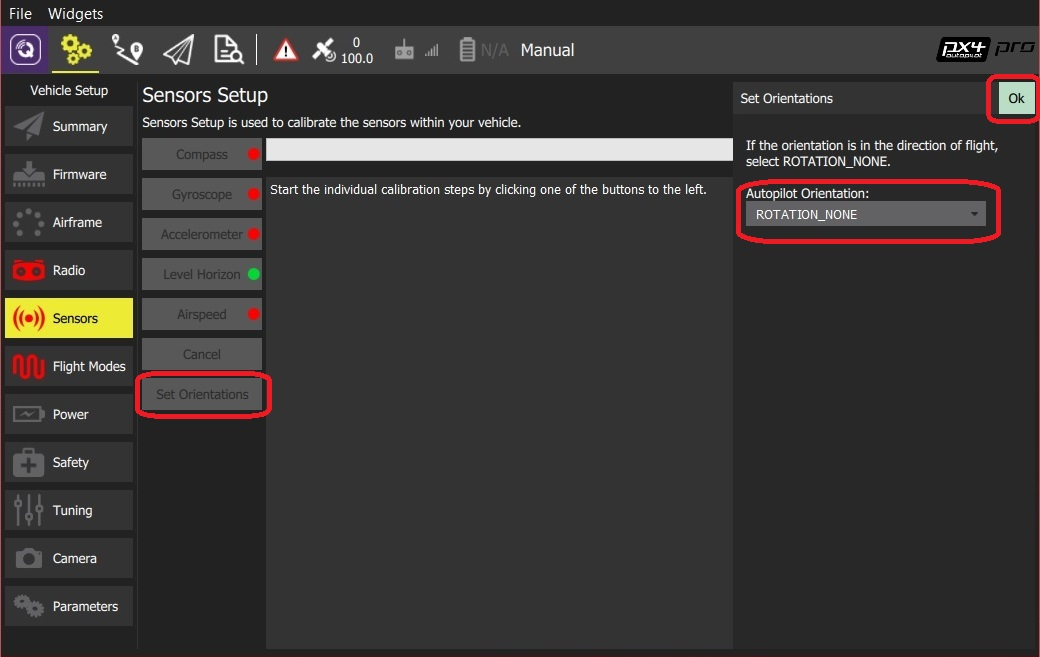
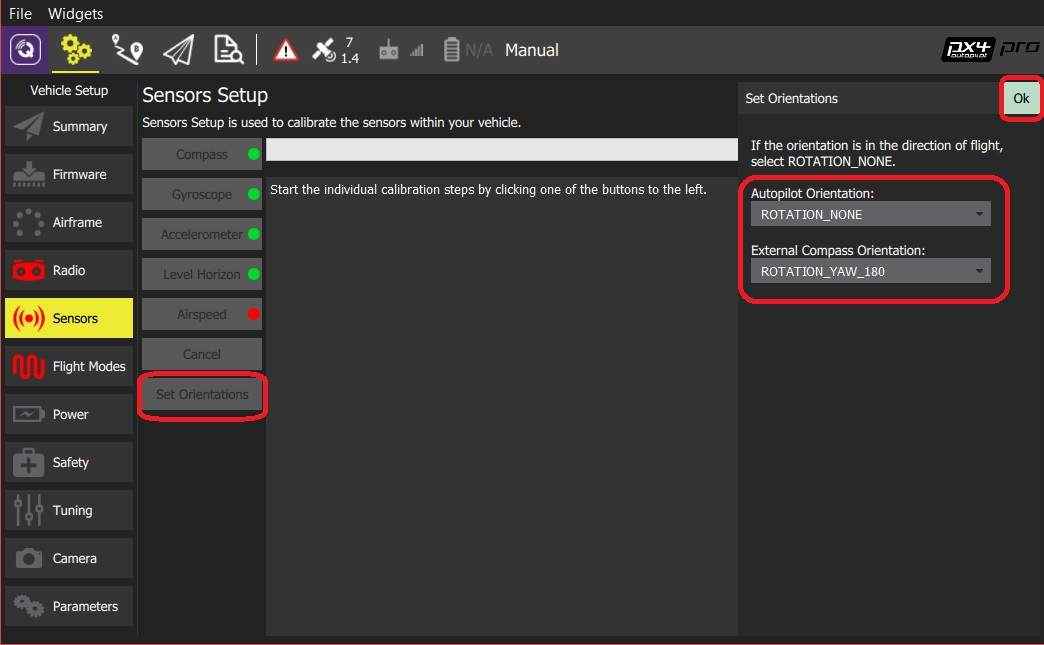
Further updates to sensor calibration

diff --git a/en/SetupView/Sensors.md b/en/SetupView/Sensors.md
@@ -10,23 +10,48 @@ Available sensors are displayed as a list of buttons beside the sidebar. Sensors
 
 Click on the button for each sensor to start its calibration sequence.
 
+
 <span id="flight_controller_orientation"></span>
-## Flight Controller Orientation (Sensor Settings / Set Orientations)
+## Flight Controller Orientation
 
-> **Tip** You can skip this section if the flight controller and compass are mounted in the default orientation (upright on the vehicle and facing the front - `ROTATION_NONE`).
+> **Tip** You can skip this section if the flight controller and compass are mounted upright on the vehicle and facing the front (this is the default orientation - `ROTATION_NONE`).
 
-If the autopilot/compass are mounted in any other way you will need to specify the orientations using either the **Sensor Settings** or **Set Orientation** buttons. In either case, choose the orientation for your autopilot/sensors from the selection list(s) and then press **OK**.
+If the autopilot/compass are mounted in any other way you will need to specify their orientations as YAW, PITCH and/or ROLL offsets relative to the forward-facing-upright orientation (clock-wise rotation around the Z, Y and X axis, respectively).
 
-<img src="../../images/setup/sensor_orientation_sensor_settings.jpg" style="width: 600px;"/>
+<img src="../../images/setup/flight_controller_orientation.png" style="width: 600px;"/>
 
-<img src="../../images/setup/sensor_orientation_set_orientations.jpg" style="width: 600px;"/>
+For example, the image below are at orientations: `ROTATION_NONE`, `ROTATION_YAW_90`,`ROTATION_YAW_180`,`ROTATION_YAW_270`.
 
-> **Note** The orientation is specified as YAW, PITCH and/or ROLL offsets relative to the forward-facing-upright orientation (clock-wise rotation around the Z, Y and X axis, respectively).
->
-> <img src="../../images/setup/flight_controller_orientation.png" style="width: 600px;"/>
->
-> For example, the image below shows some `ROTATION_YAW_XX` orientations:
-> <img src="../../images/setup/flight_controller_yaw_rotation.png" style="width: 600px;"/>
+<img src="../../images/setup/flight_controller_yaw_rotation.png" style="width: 600px;"/>
+
+### Set Orientations (PX4)
+
+To set the orientation(s) on PX4:
+
+1. Select the **Set Orientations** button.
+   
+   <img src="../../images/setup/sensor_orientation_set_orientations.jpg" style="width: 600px;"/>
+   
+1. Select the **AutoPilot Orientation**.
+
+1. Select the **External Compass Orientation** (this option will only be displayed if there is an external compass).
+
+1. Press **OK**.
+
+
+### Sensor Settings (ArduPilot)
+
+To set the orientation(s) on ArduPilot:
+
+1. Select the **Sensor Settings** button.
+
+   <img src="../../images/setup/sensor_orientation_sensor_settings.jpg" style="width: 600px;"/>
+
+1. Select the **AutoPilot Orientation**.
+
+1. Select the *orientation* from **Compass 1 (primary/external) > Orientation** (or check **Compass2 (secondary, external) > Use Compass** to instead use the internal compass).
+
+1. Press **OK**.
 
 
 
@@ -42,15 +67,15 @@ The calibration steps are:
 
 1. Click the **Compass** sensor button
 
+   ![Select Compass calibration PX4](../../images/setup/sensor_compass_select_px4.jpg)
+
 1. Click **OK** to start the calibration. 
 
-   <img src="../../images/setup/sensor_compass_orientation_prompt.jpg" width="250px" title="Start calibration prompt" />
-
-   > **Note** You should already have set the [Flight Controller Orientation](#flight_controller_orientation) in the previous section. If not, you can also set it here.
+   > **Note** You should already have set the [Flight Controller Orientation](#flight_controller_orientation) above. If not, you can also set it here.
 
 1. Place the vehicle in any of the orientations shown in red (incomplete) and hold it still. Once prompted (the orientation-image turns yellow) rotate the vehicle around the specified axis in either/both directions. Once the calibration is complete in that orientation the associated image on the screen will turn green.
  
-   ![](../../images/setup/sensors_px4_compass.jpg)
+   ![Compass calibration steps on PX4](../../images/setup/sensor_compass_calibrate_px4.jpg)
    
 1. Repeat the calibration process for all vehicle orientations.
    
@@ -73,27 +98,59 @@ This shows you the quality of the calibration for each compass. Using these valu
 
 ## Accelerometer
 
-To calibrate the flight controller accelerometers you will be asked to place and hold your vehicle a number of orientations (you will be prompted when to move between positions).
+To calibrate the flight controller accelerometers you will be asked to place and hold your vehicle a number of orientations (you will be prompted when to move between positions). The screens are different for PX4 and ArduPilot.
 
-The screens are different for PX4 and ArduPilot:
+### PX4 Accelerometer Calibration
 
-* **PX4:** Position the vehicle as guided by the *images* on the screen. This is very similar to compass calibration.
+The calibration steps are:
+
+1. Click the **Accelerometer** sensor button.
+
+   ![Accelerometer calibration](../../images/setup/sensor_accelerometer.jpg)
+   
+1. Click **OK** to start the calibration. 
+
+   > **Note** You should already have set the [Flight Controller Orientation](#flight_controller_orientation) above. If not, you can also set it here.  
+
+1. Position the vehicle as guided by the *images* on the screen. This is very similar to compass calibration.
   
   ![Accelerometer calibration](../../images/setup/sensor_accelerometer_positions_px4.jpg)
   
-* **ArduPilot:** Position the vehicle based on text instructions in the center display. Click the **Next** button to capture each position.
+  
+### ArduPilot Accelerometer Calibration
+
+The calibration steps are:
+
+1. Click the **Accelerometer** sensor button.
+
+   ![Accelerometer calibration](../../images/setup/sensor_accelerometer.jpg)
+   
+1. Click **OK** to start the calibration. 
+
+   > **Note** You should already have set the [Flight Controller Orientation](#flight_controller_orientation) above. If not, you can also set it here. 
+  
+1. Position the vehicle based on text instructions in the center display. Click the **Next** button to capture each position.
+
+  ![Accelerometer calibration](../../images/setup/sensor_accelerometer_positions_ardupilot.jpg)
 
 
 ## Level Horizon
 
 If the horizon (as shown in the HUD) is not level after completing Accelerometer calibration you can calibrate the level horizon for your vehicle. You will be asked to place the vehicle in a level orientation while it captures the information.
 
+1. Click the **Level Horizon** sensor button.
+
+   ![Level Horizon calibration](../../images/setup/sensor_level_horizon.jpg)
+   
 1. Place the vehicle in its level flight orientation on a level surface:
 
   * For planes this is the position during level flight (planes tend to have their wings slightly pitched up!)
   * For copters this is the hover position.
 
-1. Click the **Level Horizon** button.
+1. Click **OK** to start the calibration. 
+
+   > **Note** You should already have set the [Flight Controller Orientation](#flight_controller_orientation) above. If not, you can also set it here.
+   
 
 
 ## Airspeed
@@ -103,9 +160,11 @@ For Airspeed calibration you will need to keep your airspeed sensor out of any w
 To calibrate the airspeed sensor:
 
 1. Click the **Airspeed** sensor button
+
+   ![Airspeed calibration](../../images/setup/sensors_airspeed.jpg)
+
 1. Click **OK** to start the calibration. 
 
-![Airspeed calibration](../../images/setup/sensors_airspeed.jpg)
 
 
 ## CompassMot (Optional - ArduPilot only)
@@ -114,5 +173,10 @@ CompassMot calibration is optional! It is recommended for vehicles that only hav
 
 To perform **CompassMot** calibration:
 
-1. Click the **CompassMot** button.
+1. Click the **CompassMot** sensor button.
+
+   <img src="../../images/setup/sensor_compass_mot_menu.jpg" style="width: 250px;"/>
+
 1. Follow the onscreen prompts.
+
+   ![CompassMot calibration](../../images/setup/sensor_compass_mot.jpg)
